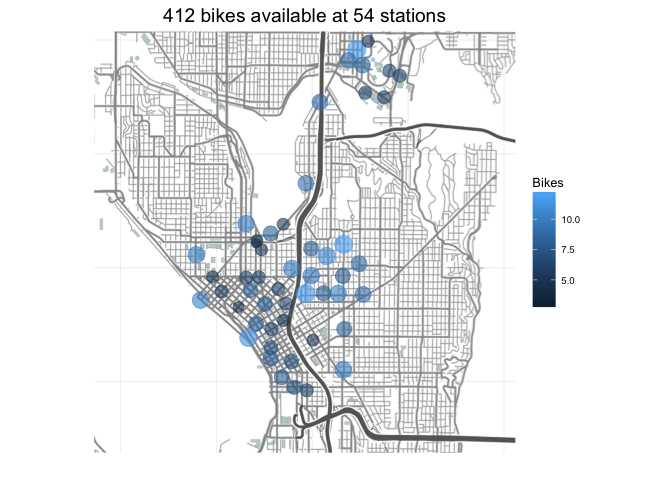
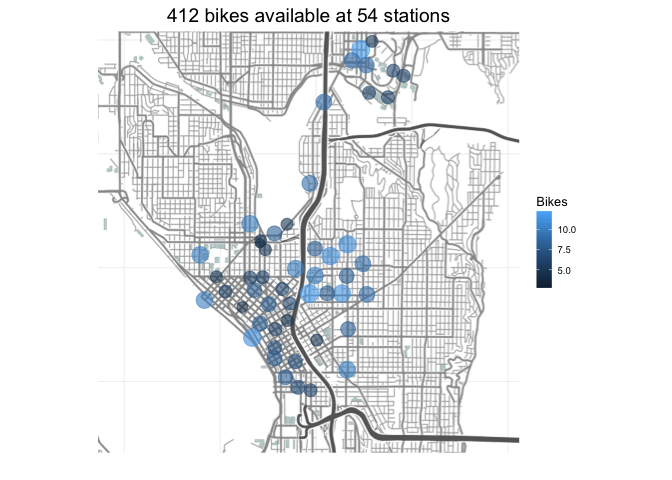
README updates

diff --git a/README.md b/README.md
@@ -79,7 +79,8 @@ p <- ggmap(map) +
     theme(axis.text = element_blank()) +
     theme(axis.title = element_blank()) +
     theme(legend.title = element_text(size = rel(0.8))) +
-    theme(legend.text = element_text(size = rel(0.6)))
+    theme(legend.text = element_text(size = rel(0.6))) +
+    theme(legend.key.size = unit(0.8, "lines"))
 p
 ```
 
@@ -113,20 +114,21 @@ p <- ggmap(map) +
                aes(x=lo, y=la, size=ba, color=ba, frame = timestamp),
                alpha = 0.6) +
     scale_size_area(guide=FALSE) +
-    scale_color_continuous(name = "Bikes\nAvailable") +
+    scale_color_continuous(name = "Bikes") +
     scale_alpha_continuous(guide = FALSE) +
     theme_minimal() +
     theme(axis.text = element_blank()) +
     theme(axis.title = element_blank()) +
     theme(legend.title = element_text(size = rel(0.8))) +
-    theme(legend.text = element_text(size = rel(0.6)))
+    theme(legend.text = element_text(size = rel(0.6))) +
+    theme(legend.key.size = unit(0.8, "lines"))
 gg_animate(p)
 ```
 
 Finding the closest bike
 ------------------------
 
-We've just picked up some drinks at [Pete's Wine Shop](http://www.peteswineshop.com) and need to get to the party. We can use [fossil](https://cran.r-project.org/web/packages/fossil/index.html) to calculate the distances between our location (`here`) and each station to find the nearest bike.
+We've just picked up some drinks at [Pete's Wine Shop](http://www.peteswineshop.com) and need to get to the party. We can use [fossil](https://cran.r-project.org/web/packages/fossil/index.html) to calculate the distances between our location (`here`) and each station to find the nearest bike. Unfortunately, this won't tell you about hills.
 
 ``` r
 library(pronto)
@@ -143,9 +145,9 @@ closest_station <- pronto_stations()$stations %>%
     filter(su == FALSE) %>%      # make sure the station is operating
     head(n = 1)
 
-cat(sprintf("The %s station is %.02f km away and currently has %d bike(s) available",
+cat(sprintf("The %s station is %.02f km away and has %d bike(s) available",
             closest_station$s, closest_station$dist_km, closest_station$ba))
-#> The E Blaine St & Fairview Ave E station is 0.59 km away and currently has 9 bike(s) available
+#> The E Blaine St & Fairview Ave E station is 0.59 km away and has 9 bike(s) available
 ```
 
 Disclaimer
